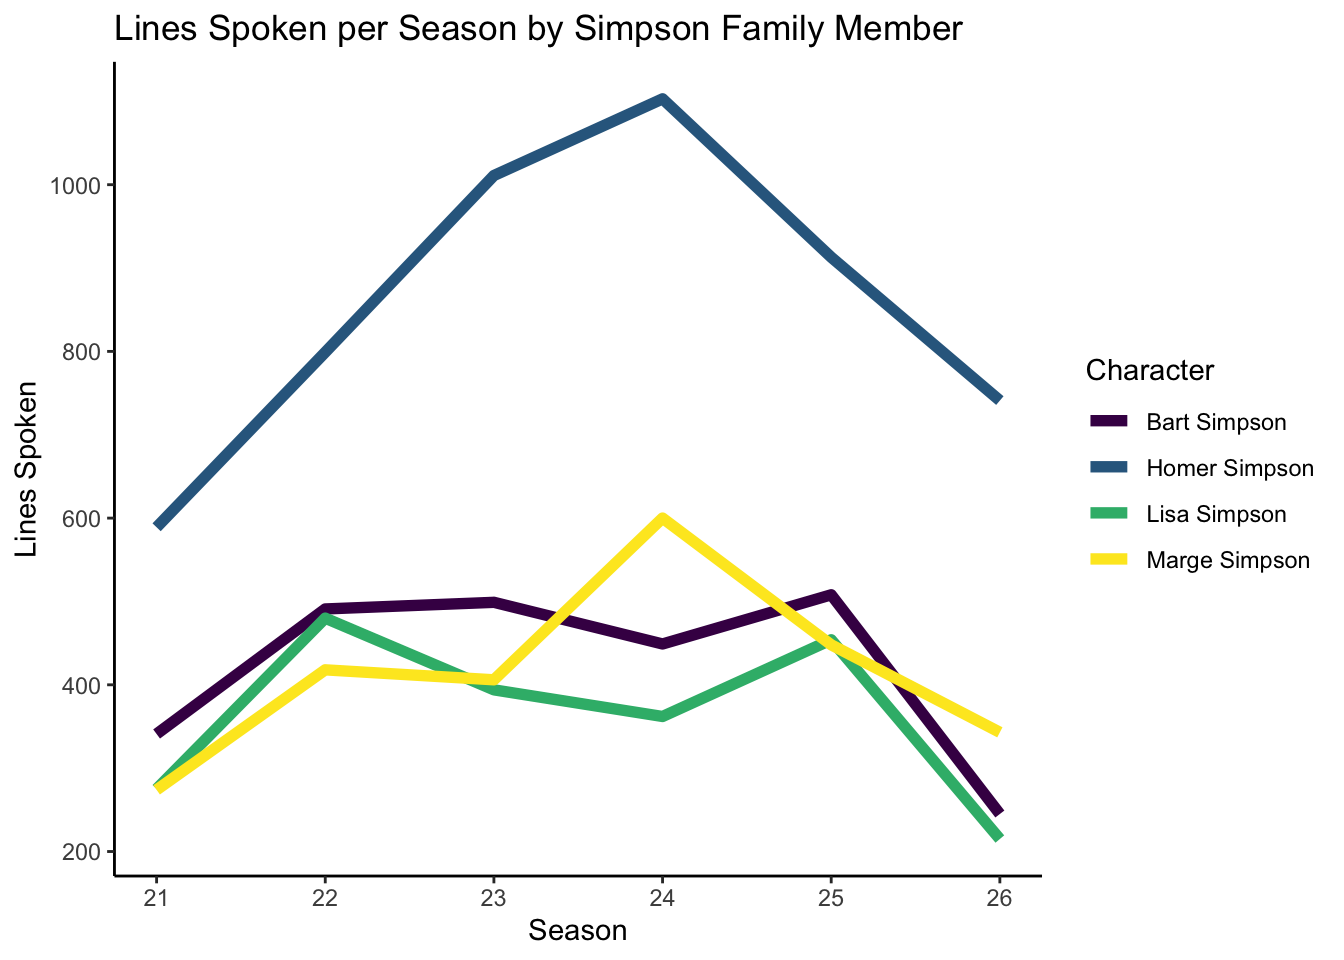
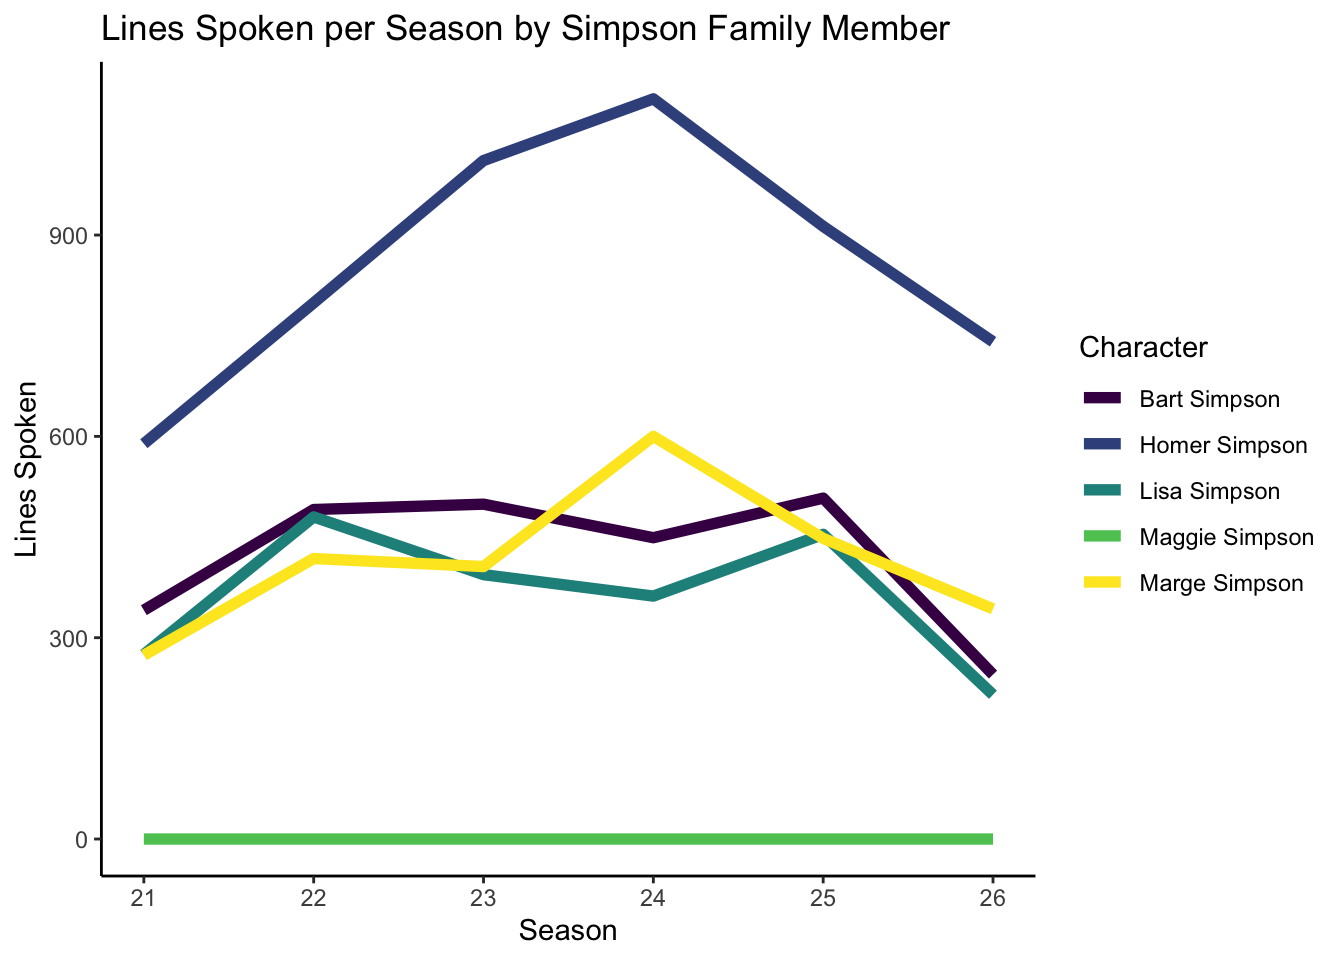
02-04-2025 TT Revision

diff --git a/2025-02-04/02-04-2025TT.html b/2025-02-04/02-04-2025TT.html
@@ -113,7 +113,7 @@ pre > code.sourceCode > span > a:first-child::before { text-decoration: underlin
 </div>
 <div class="cell">
 <div class="sourceCode cell-code" id="cb2"><pre class="sourceCode r code-with-copy"><code class="sourceCode r"><span id="cb2-1"><a href="#cb2-1" aria-hidden="true" tabindex="-1"></a>simpson_family <span class="ot">&lt;-</span> simpsons_characters <span class="sc">%&gt;%</span></span>
-<span id="cb2-2"><a href="#cb2-2" aria-hidden="true" tabindex="-1"></a>  <span class="fu">filter</span>(id <span class="sc">%in%</span> <span class="fu">c</span>(<span class="dv">1</span>, <span class="dv">2</span>, <span class="dv">8</span>, <span class="dv">9</span>)) <span class="sc">%&gt;%</span> </span>
+<span id="cb2-2"><a href="#cb2-2" aria-hidden="true" tabindex="-1"></a>  <span class="fu">filter</span>(id <span class="sc">%in%</span> <span class="fu">c</span>(<span class="dv">1</span>, <span class="dv">2</span>, <span class="dv">8</span>, <span class="dv">9</span>, <span class="dv">105</span>)) <span class="sc">%&gt;%</span> </span>
 <span id="cb2-3"><a href="#cb2-3" aria-hidden="true" tabindex="-1"></a>  <span class="fu">mutate</span>(<span class="at">char_id =</span> id)</span>
 <span id="cb2-4"><a href="#cb2-4" aria-hidden="true" tabindex="-1"></a></span>
 <span id="cb2-5"><a href="#cb2-5" aria-hidden="true" tabindex="-1"></a>spoken_lines <span class="ot">&lt;-</span> simpsons_script_lines <span class="sc">%&gt;%</span> </span>
@@ -124,20 +124,27 @@ pre > code.sourceCode > span > a:first-child::before { text-decoration: underlin
 <span id="cb2-10"><a href="#cb2-10" aria-hidden="true" tabindex="-1"></a></span>
 <span id="cb2-11"><a href="#cb2-11" aria-hidden="true" tabindex="-1"></a>simpsons_speaking <span class="ot">&lt;-</span> <span class="fu">left_join</span>(simpsons_speaking, simpsons_episodes, <span class="at">by =</span> <span class="fu">c</span>(<span class="st">"episode_id"</span> <span class="ot">=</span> <span class="st">"id"</span>))</span></code><button title="Copy to Clipboard" class="code-copy-button"><i class="bi"></i></button></pre></div>
 </div>
+<p>Who in the Simpson family has the most spoken lines in every season?</p>
 <div class="cell">
 <div class="sourceCode cell-code" id="cb3"><pre class="sourceCode r code-with-copy"><code class="sourceCode r"><span id="cb3-1"><a href="#cb3-1" aria-hidden="true" tabindex="-1"></a>simpsons_speaking <span class="sc">%&gt;%</span> </span>
 <span id="cb3-2"><a href="#cb3-2" aria-hidden="true" tabindex="-1"></a>  <span class="fu">group_by</span>(name, season) <span class="sc">%&gt;%</span> </span>
 <span id="cb3-3"><a href="#cb3-3" aria-hidden="true" tabindex="-1"></a>  <span class="fu">summarise</span>(<span class="at">lines_spoken =</span> <span class="fu">n</span>()) <span class="sc">%&gt;%</span> </span>
-<span id="cb3-4"><a href="#cb3-4" aria-hidden="true" tabindex="-1"></a>  <span class="fu">ggplot</span>(<span class="fu">aes</span>(<span class="at">x =</span> season, <span class="at">y =</span> lines_spoken, <span class="at">color =</span> name)) <span class="sc">+</span></span>
-<span id="cb3-5"><a href="#cb3-5" aria-hidden="true" tabindex="-1"></a>  <span class="fu">geom_line</span>(<span class="at">linewidth =</span> <span class="dv">2</span>) <span class="sc">+</span></span>
-<span id="cb3-6"><a href="#cb3-6" aria-hidden="true" tabindex="-1"></a>  <span class="fu">scale_color_viridis_d</span>() <span class="sc">+</span></span>
-<span id="cb3-7"><a href="#cb3-7" aria-hidden="true" tabindex="-1"></a>  <span class="fu">labs</span>(<span class="at">title =</span> <span class="st">"Lines Spoken per Season by Simpson Family Member"</span>, <span class="at">color =</span> <span class="st">"Character"</span>) <span class="sc">+</span></span>
-<span id="cb3-8"><a href="#cb3-8" aria-hidden="true" tabindex="-1"></a>  <span class="fu">xlab</span>(<span class="st">"Season"</span>) <span class="sc">+</span></span>
-<span id="cb3-9"><a href="#cb3-9" aria-hidden="true" tabindex="-1"></a>  <span class="fu">ylab</span>(<span class="st">"Lines Spoken"</span>) <span class="sc">+</span></span>
-<span id="cb3-10"><a href="#cb3-10" aria-hidden="true" tabindex="-1"></a>  <span class="fu">theme_classic</span>()</span></code><button title="Copy to Clipboard" class="code-copy-button"><i class="bi"></i></button></pre></div>
+<span id="cb3-4"><a href="#cb3-4" aria-hidden="true" tabindex="-1"></a>  <span class="fu">complete</span>(<span class="at">season =</span> <span class="dv">21</span><span class="sc">:</span><span class="dv">26</span>) <span class="sc">%&gt;%</span> </span>
+<span id="cb3-5"><a href="#cb3-5" aria-hidden="true" tabindex="-1"></a>  <span class="fu">mutate</span>(<span class="at">lines_spoken =</span> <span class="fu">if_else</span>(<span class="fu">is.na</span>(lines_spoken), <span class="dv">0</span>, lines_spoken)) <span class="sc">%&gt;%</span> </span>
+<span id="cb3-6"><a href="#cb3-6" aria-hidden="true" tabindex="-1"></a>  <span class="fu">ggplot</span>(<span class="fu">aes</span>(<span class="at">x =</span> season, <span class="at">y =</span> lines_spoken, <span class="at">color =</span> name)) <span class="sc">+</span></span>
+<span id="cb3-7"><a href="#cb3-7" aria-hidden="true" tabindex="-1"></a>  <span class="fu">geom_line</span>(<span class="at">linewidth =</span> <span class="dv">2</span>) <span class="sc">+</span></span>
+<span id="cb3-8"><a href="#cb3-8" aria-hidden="true" tabindex="-1"></a>  <span class="fu">scale_color_viridis_d</span>() <span class="sc">+</span></span>
+<span id="cb3-9"><a href="#cb3-9" aria-hidden="true" tabindex="-1"></a>  <span class="fu">labs</span>(<span class="at">title =</span> <span class="st">"Lines Spoken per Season by Simpson Family Member"</span>, <span class="at">color =</span> <span class="st">"Character"</span>) <span class="sc">+</span></span>
+<span id="cb3-10"><a href="#cb3-10" aria-hidden="true" tabindex="-1"></a>  <span class="fu">xlab</span>(<span class="st">"Season"</span>) <span class="sc">+</span></span>
+<span id="cb3-11"><a href="#cb3-11" aria-hidden="true" tabindex="-1"></a>  <span class="fu">ylab</span>(<span class="st">"Lines Spoken"</span>) <span class="sc">+</span></span>
+<span id="cb3-12"><a href="#cb3-12" aria-hidden="true" tabindex="-1"></a>  <span class="fu">theme_classic</span>()</span></code><button title="Copy to Clipboard" class="code-copy-button"><i class="bi"></i></button></pre></div>
 <div class="cell-output cell-output-stderr">
 <pre><code>`summarise()` has grouped output by 'name'. You can override using the
 `.groups` argument.</code></pre>
+</div>
+<div class="cell-output cell-output-stderr">
+<pre><code>Warning: Removed 1 row containing missing values or values outside the scale range
+(`geom_line()`).</code></pre>
 </div>
 <div class="cell-output-display">
 <div>
@@ -146,11 +153,9 @@ pre > code.sourceCode > span > a:first-child::before { text-decoration: underlin
 </figure>
 </div>
 </div>
-<div class="sourceCode cell-code" id="cb5"><pre class="sourceCode r code-with-copy"><code class="sourceCode r"><span id="cb5-1"><a href="#cb5-1" aria-hidden="true" tabindex="-1"></a><span class="fu">ggsave</span>(<span class="at">filename =</span> <span class="st">"2-04-2025_TidyTuesday.png"</span>, <span class="at">plot =</span> <span class="fu">last_plot</span>())</span></code><button title="Copy to Clipboard" class="code-copy-button"><i class="bi"></i></button></pre></div>
-<div class="cell-output cell-output-stderr">
-<pre><code>Saving 7 x 5 in image</code></pre>
+<div class="sourceCode cell-code" id="cb6"><pre class="sourceCode r code-with-copy"><code class="sourceCode r"><span id="cb6-1"><a href="#cb6-1" aria-hidden="true" tabindex="-1"></a><span class="co"># ggsave(filename = "2-04-2025_TidyTuesday.png", plot = last_plot())</span></span></code><button title="Copy to Clipboard" class="code-copy-button"><i class="bi"></i></button></pre></div>
 </div>
-</div>
+<p>This plot shows that, by far, Homer Simpson has the most spoken lines in the Simpson family throughout the entire show. While Marge and Homer spoke more during season 24, Bart and Lisa spoke a bit less. Maggie does not have any “spoken” lines. Bart and Lisa follow very similar trends as each other, while Marge somewhat follows Homer’s path (on a lesser scale), besides season 22 and 23.</p>
 
 </main>
 <!-- /main column -->
